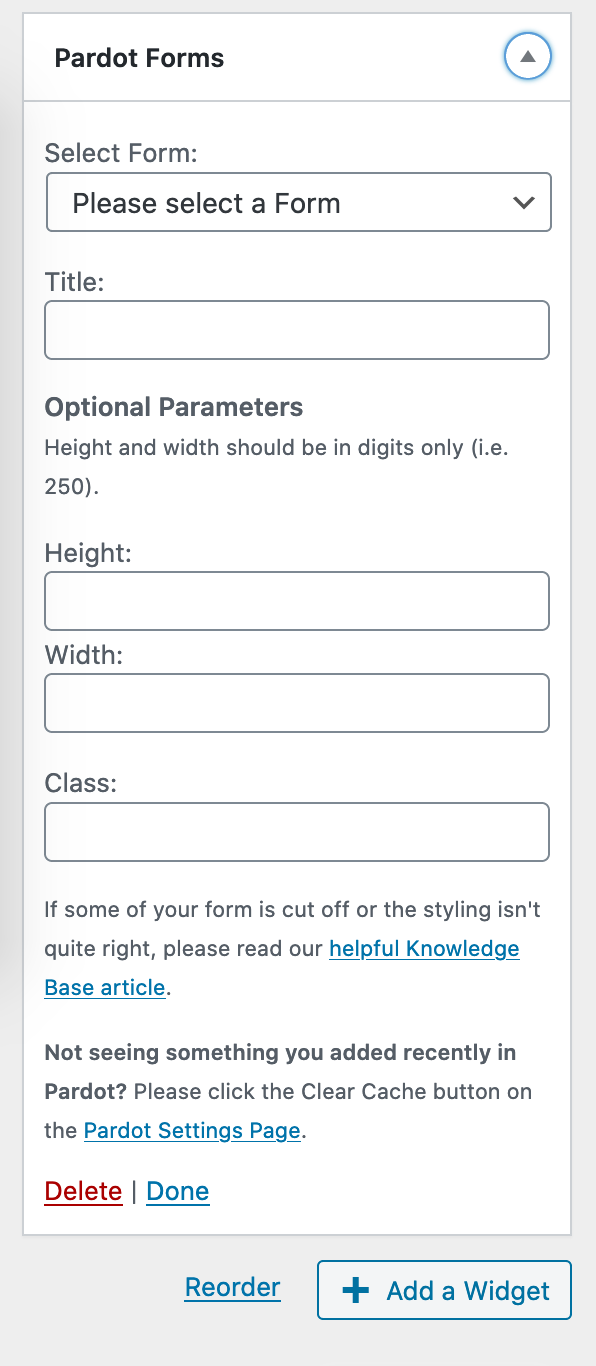
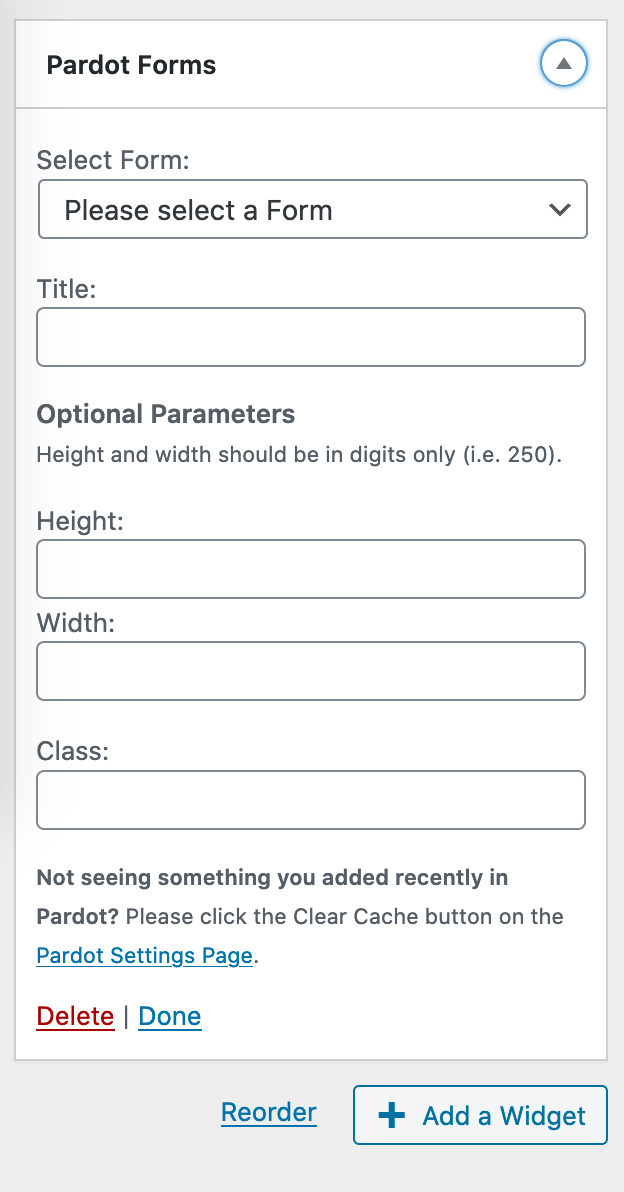
Removes dead link & updates tested WP version

Changed region(s): [[0.0, 0.0, 0.9966, 0.9622], [0.604, 0.3104, 0.8456, 0.3414], [0.8154, 0.3725, 0.906, 0.4035]]

diff --git a/trunk/includes/pardot-forms-widget-class.php b/trunk/includes/pardot-forms-widget-class.php
@@ -401,23 +401,6 @@ HTML;
 			 */
 			$prompt = __( 'Select Form:', 'pardot' );
 
-			/**
-			 * Create link text for the help link
-			 */
-			$help_link_text = __( 'helpful Knowledge Base article', 'pardot' );
-
-			/**
-			 * Merge the link and help text link into a help link.
-			 */
-			$help_link = sprintf( '<a href="%s" target="_blank">%s</a>', Pardot_Settings::HELP_URL, $help_link_text );
-
-			/**
-			 * Create a variable for help text to be used in the HEREDOC
-			 * Add the link into the help text.
-			 */
-			$help_text = __( 'If some of your form is cut off or the styling isn\'t quite right, please read our %s.', 'pardot' );
-			$help_text = sprintf( $help_text, $help_link );
-
             /**
              * Create a variable for parameters helper text.
              */
@@ -476,7 +459,6 @@ HTML;
 		
 		
 		$html .= <<<HTML
-<p><small>{$help_text}</small></p>
 <p><small>{$cache_text}</small></p>
 HTML;
 		

diff --git a/trunk/includes/pardot-settings-class.php b/trunk/includes/pardot-settings-class.php
@@ -11,11 +11,6 @@
  */
 class Pardot_Settings {
 	/**
-	 * @var string Help page on Pardot's website discussing this plugin.
-	 */
-	const HELP_URL = 'http://www.pardot.com/help/faqs/add-ons/wordpress-plugin';
-
-	/**
 	 * @var string Admin page on Pardot's website linked to an authenticated user's account.
 	 */
 	const ACCOUNT_URL = 'https://pi.pardot.com/account/user';
